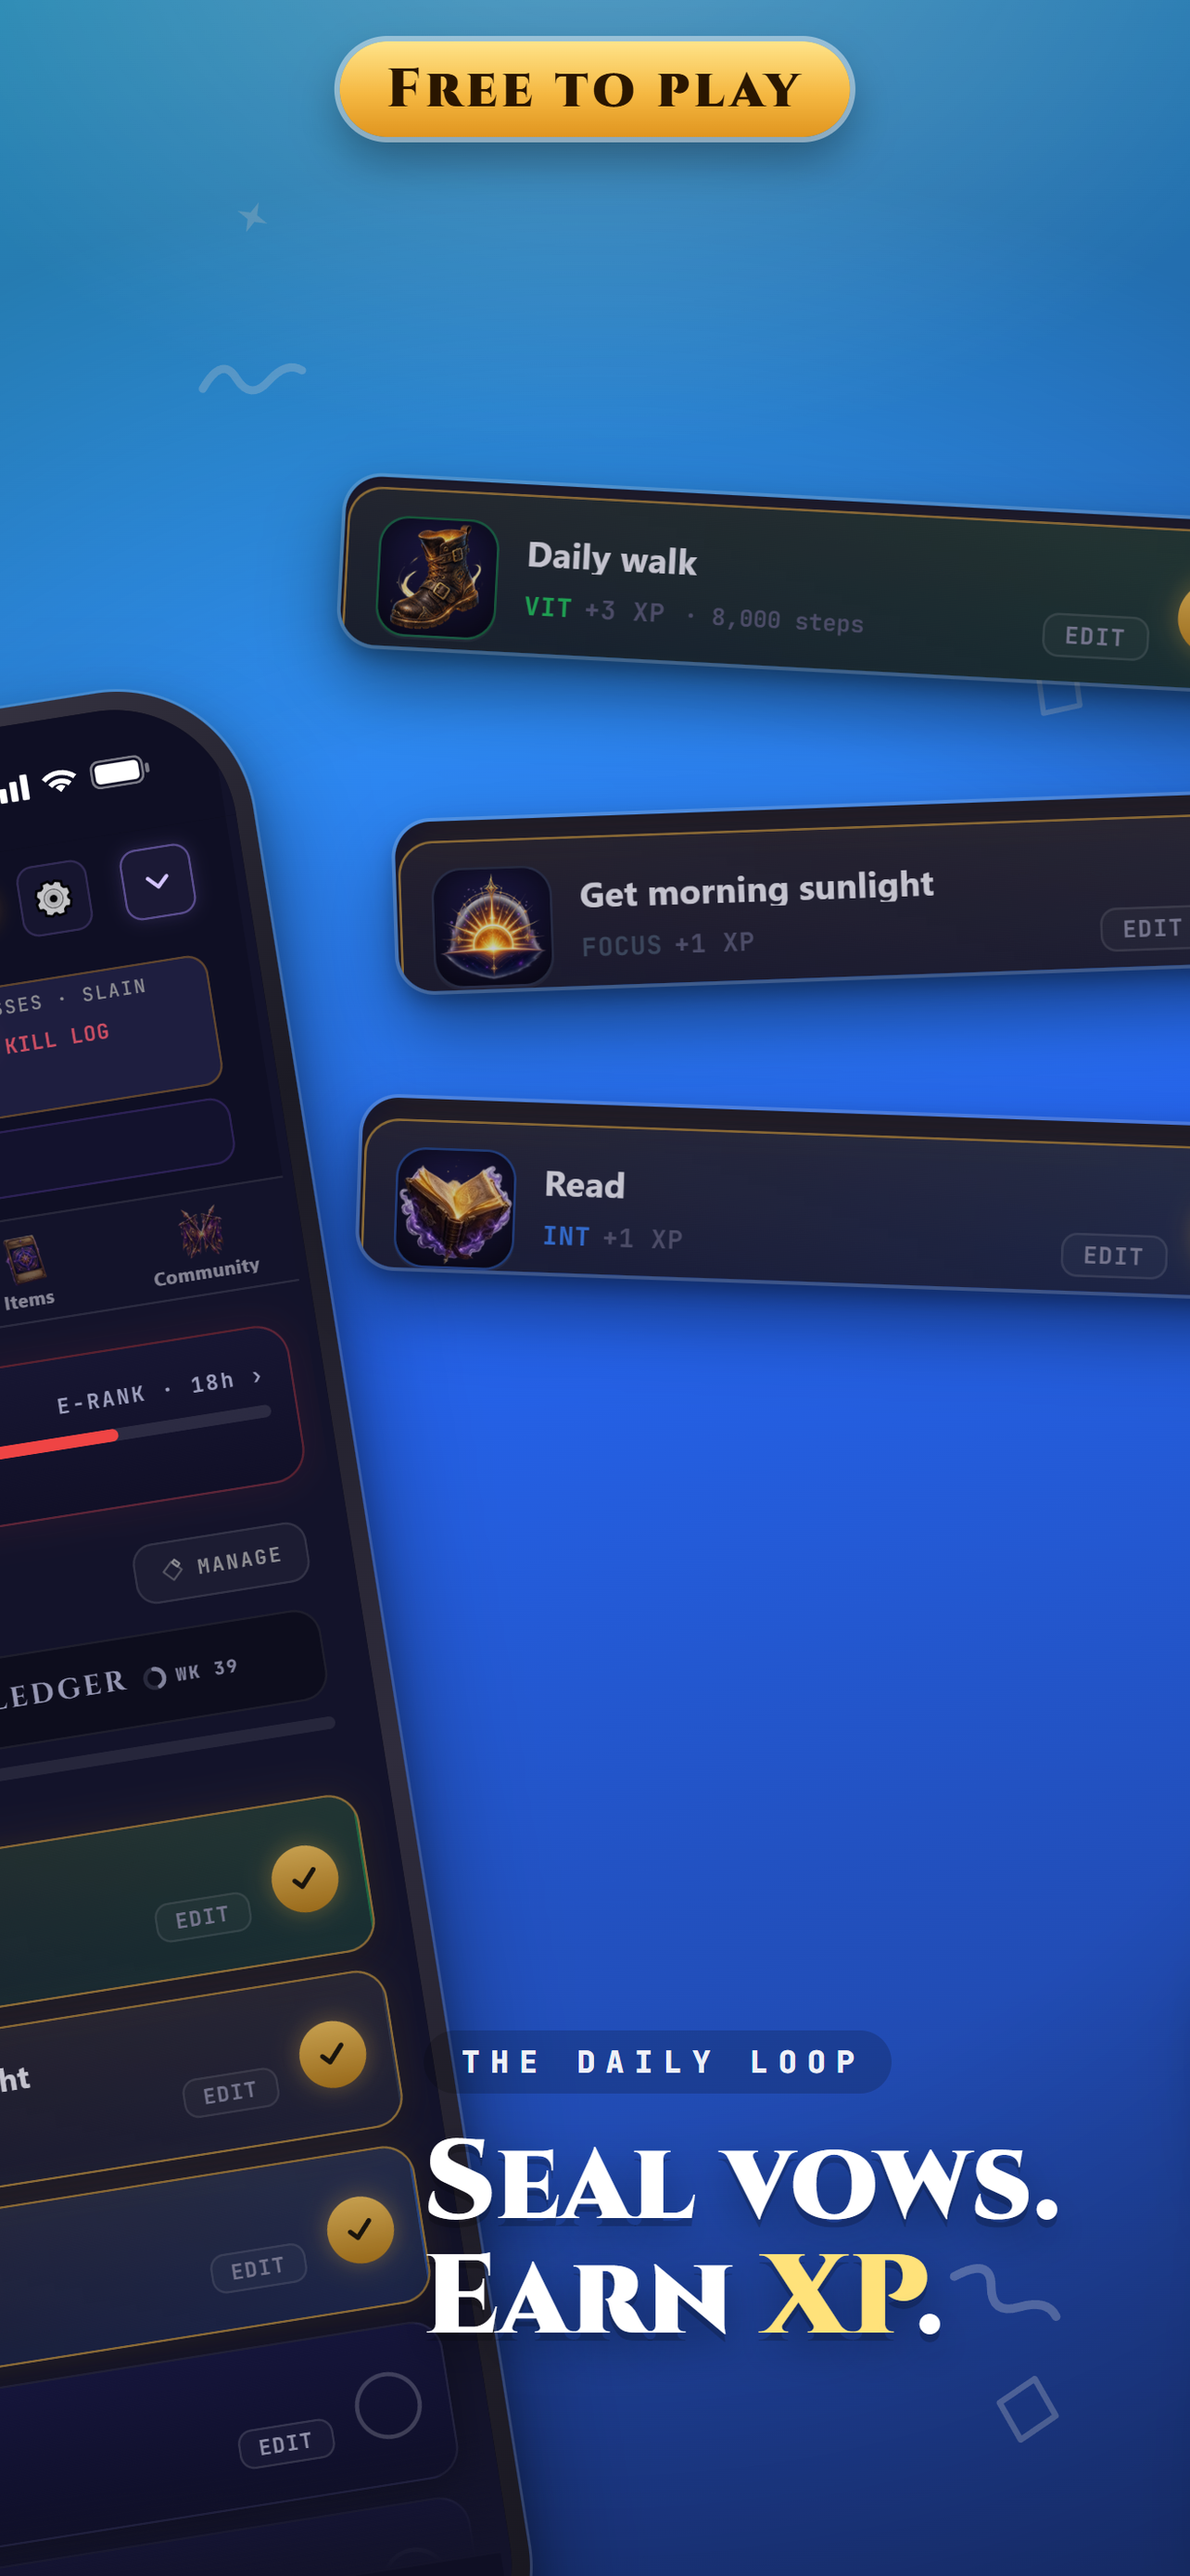
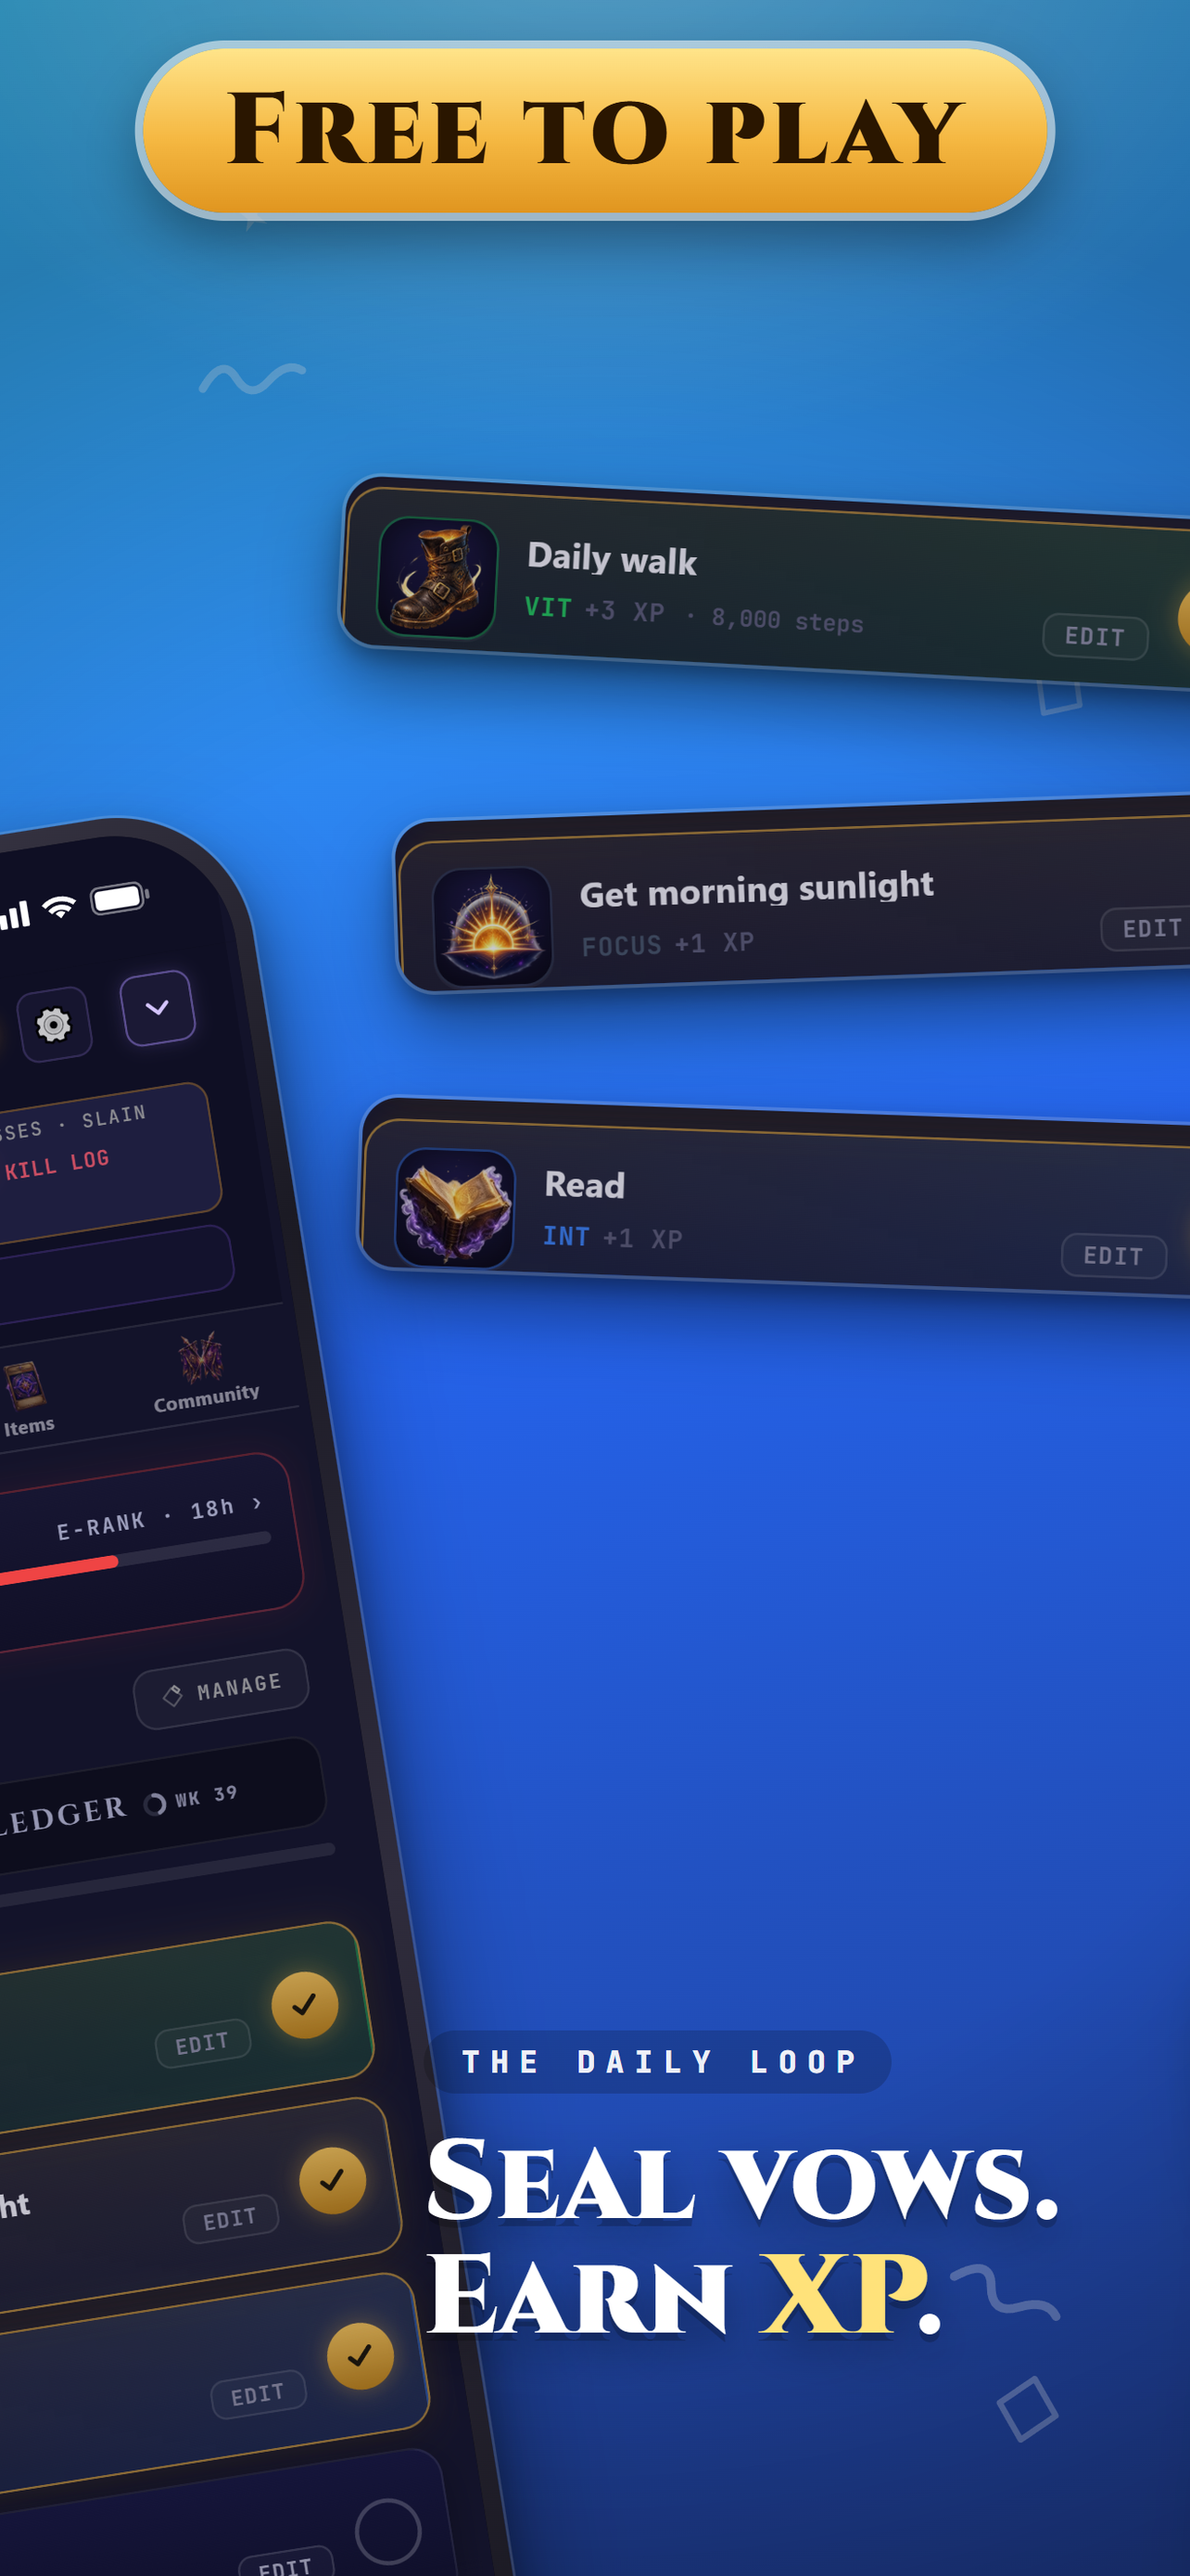
App Store screenshots: FREE TO PLAY nearly twice as big
Owner: "Too small I want the potential people to see it clearly." The
badge is 112px Cinzel (was 60); the headlines on cards 1 and 3 and their
phones moved down to make room.

diff --git a/marketing/aso-3.0.7/panorama.html b/marketing/aso-3.0.7/panorama.html
@@ -52,10 +52,11 @@
     box-shadow: 0 0 0 6px rgba(255,255,255,.35), 0 30px 60px rgba(0,0,0,.35); }
   /* 2026-10-15 owner: "on the first three, completely free to advertise that this is a free app";
      he chose FREE TO PLAY (true with Premium and skins on sale; Apple 2.3.7 frowns on prices). */
-  .free { position: absolute; top: 52px; z-index: 7; transform: translateX(-50%);
-    font: 900 60px/1 'Cinzel', serif; letter-spacing: .08em; color: #2a1600; white-space: nowrap;
-    padding: 24px 52px 22px; border-radius: 999px; background: linear-gradient(180deg, #ffe48a, #f5b842 55%, #e0951f);
-    box-shadow: 0 0 0 6px rgba(255,255,255,.45), 0 24px 50px rgba(0,0,0,.35); }
+  /* "Too small, I want the potential people to see it clearly": nearly twice the first try. */
+  .free { position: absolute; top: 60px; z-index: 7; transform: translateX(-50%);
+    font: 900 112px/1 'Cinzel', serif; letter-spacing: .05em; color: #2a1600; white-space: nowrap;
+    padding: 38px 90px 32px; border-radius: 999px; background: linear-gradient(180deg, #ffe48a, #f5b842 55%, #e0951f);
+    box-shadow: 0 0 0 9px rgba(255,255,255,.55), 0 30px 70px rgba(0,0,0,.4); }
 </style>
 </head>
 <body>
@@ -67,9 +68,9 @@
 
   // ── the six cards: colour + doodles + copy ──
   const CARDS = [
-    { bg: 'linear-gradient(165deg, #8b5cf6 0%, #6d28d9 45%, #3b0f8c 100%)', kicker: 'A habit RPG', h: 'Turn your habits<br>into an <em>RPG</em>.', top: 170 },
+    { bg: 'linear-gradient(165deg, #8b5cf6 0%, #6d28d9 45%, #3b0f8c 100%)', kicker: 'A habit RPG', h: 'Turn your habits<br>into an <em>RPG</em>.', top: 296 },
     { bg: 'linear-gradient(165deg, #38bdf8 0%, #2563eb 50%, #1e3a8a 100%)', kicker: 'The daily loop', h: 'Seal vows.<br>Earn <em>XP</em>.', bottom: 250, pad: 'padding-left:470px;padding-right:40px;text-align:left' },
-    { bg: 'linear-gradient(165deg, #fb923c 0%, #ea580c 45%, #9a1c1c 100%)', kicker: 'Real steps · real bosses', h: 'Your steps<br>slay the <em>boss</em>.', top: 170 },
+    { bg: 'linear-gradient(165deg, #fb923c 0%, #ea580c 45%, #9a1c1c 100%)', kicker: 'Real steps · real bosses', h: 'Your steps<br>slay the <em>boss</em>.', top: 296 },
     { bg: 'linear-gradient(165deg, #2dd4bf 0%, #0d9488 50%, #134e4a 100%)', kicker: 'Co-op hunts', h: 'Hunt with<br>your <em>friends</em>.', top: 170 },
     { bg: 'linear-gradient(165deg, #f472b6 0%, #c026d3 45%, #581c87 100%)', kicker: 'The Worldgate', h: 'One monster.<br><em>Everyone.</em>', bottom: 250 },
     { bg: 'linear-gradient(165deg, #fcd34d 0%, #f59e0b 45%, #9a3412 100%)', kicker: 'Loot', h: 'Win legendary<br><em>relics</em>.', top: 170 },
@@ -137,13 +138,13 @@
 
   // ── the set ──
   // 1 → 2: the vow list, tilted across the seam; its vows pop out on card 2
-  phone('habits', 700, 820, 1060, -9);
+  phone('habits', 700, 960, 1060, -9);
   pop('habits', [40, 725, 1280, 960], 60, 2230, 1140, -4, 40);                  // the live hunt, card 1
   pop('habits', [48, 1398, 1274, 1616], 1700, 560, 1050, 3, 40);               // card 2: vows popping out
   pop('habits', [48, 1640, 1274, 1860], 1760, 900, 1050, -2, 40);
   pop('habits', [48, 1894, 1274, 2114], 1720, 1240, 1050, 2, 40);
   // 3: the kill, with its spoils flying out
-  phone('victory', 2640 + 170, 860, 980, 6);
+  phone('victory', 2640 + 170, 940, 980, 6);
   pop('victory', [80, 1385, 655, 1628], 2640 + 40, 2140, 640, -7, 40);         // +120 souls
   pop('victory', [665, 1385, 1240, 1628], 2640 + 660, 2330, 640, 5, 40);       // the relic
   // 4 → 5: the co-op win across the seam; the Worldgate podium pops on card 5
